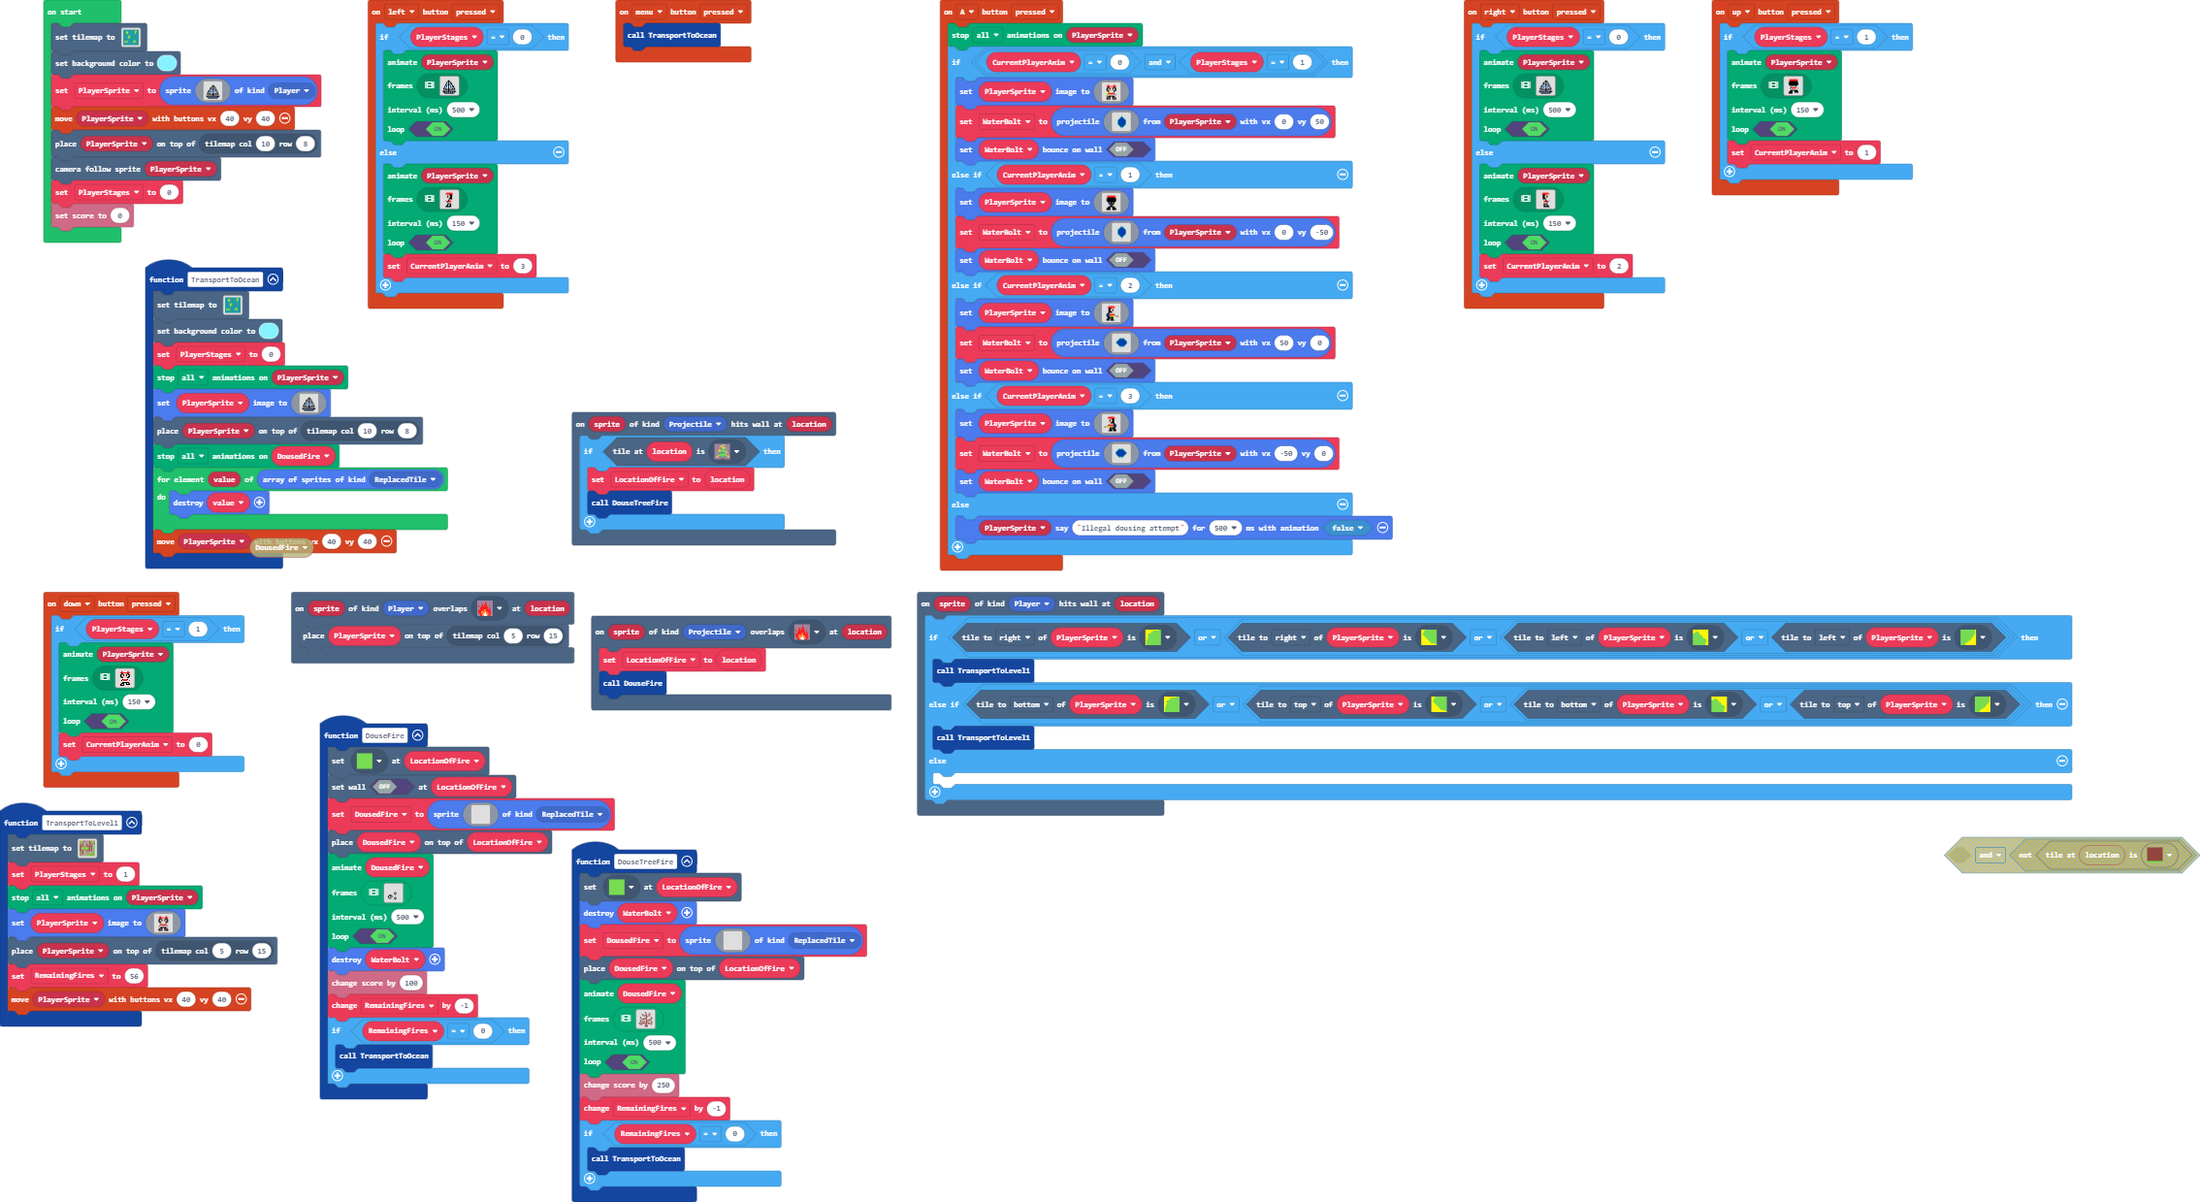
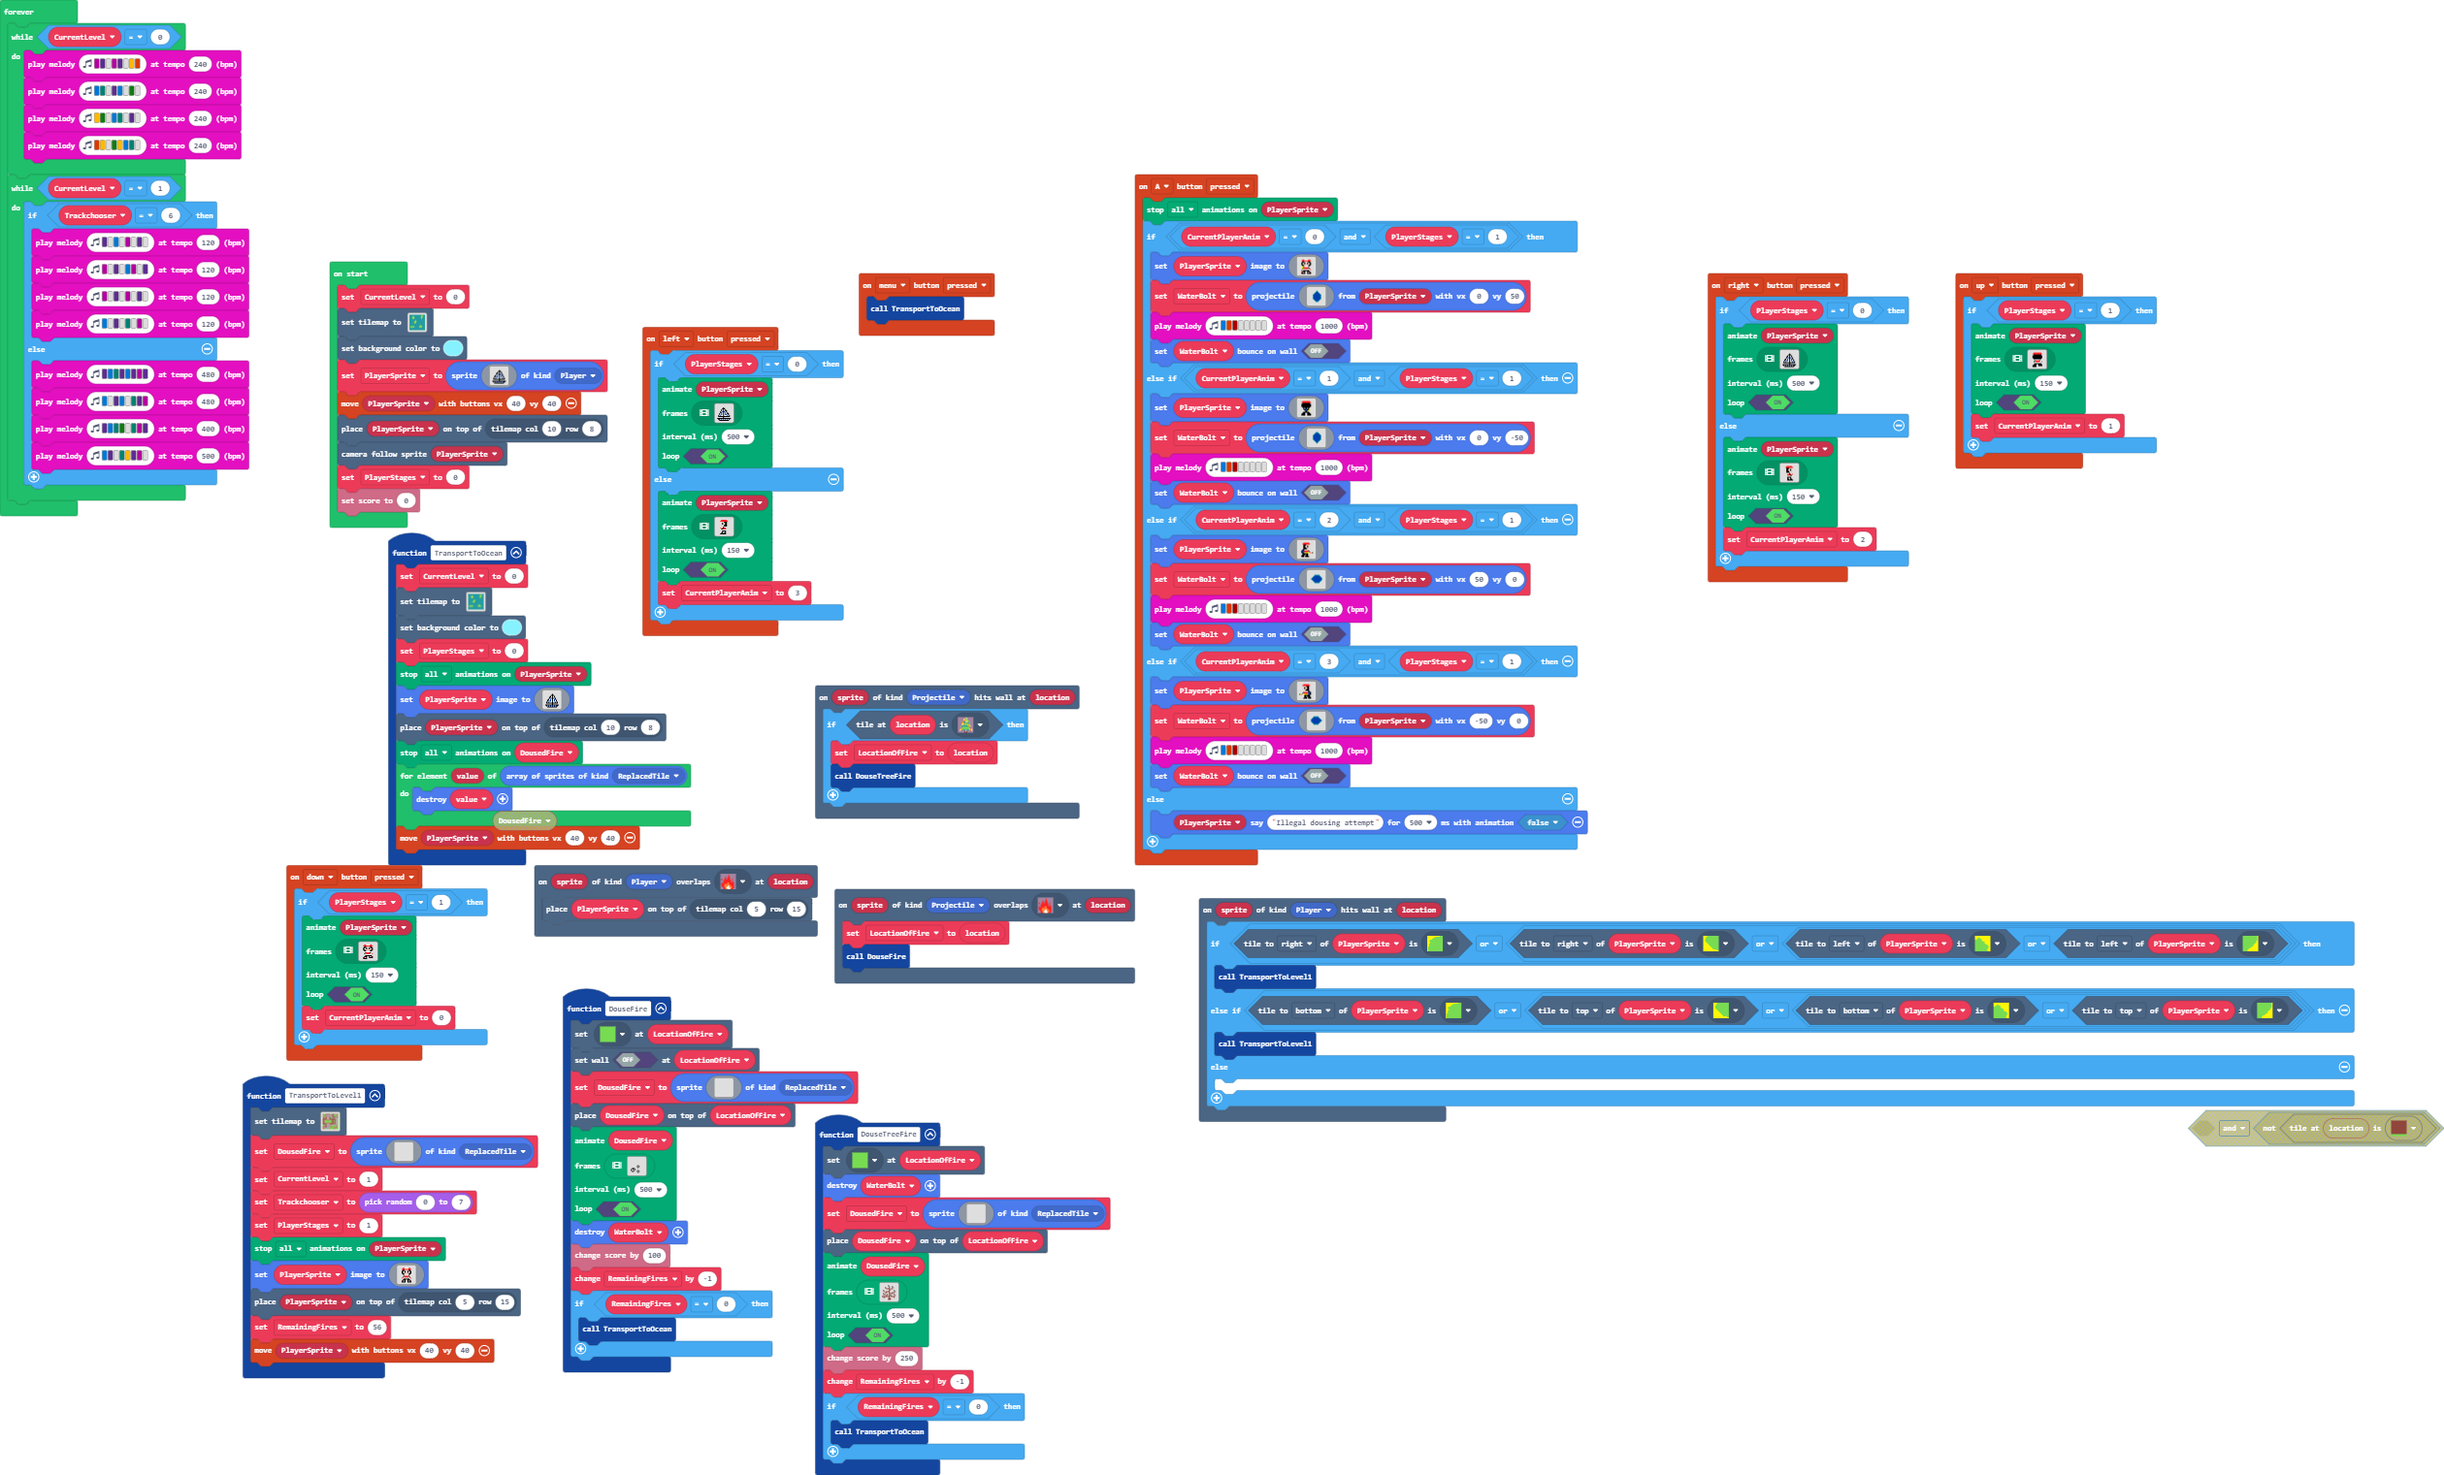
added music to the ocean+Lvl1 also fixed some bugs and changed the project name

diff --git a/main.ts b/main.ts
@@ -61,18 +61,22 @@ controller.A.onEvent(ControllerButtonEvent.Pressed, function () {
     if (CurrentPlayerAnim == 0 && PlayerStages == 1) {
         PlayerSprite.setImage(assets.image`FireFighterSpecialActionDown`)
         WaterBolt = sprites.createProjectileFromSprite(assets.image`WaterBlastDown`, PlayerSprite, 0, 50)
+        music.playMelody("E B C5 - - - - - ", 1000)
         WaterBolt.setBounceOnWall(false)
-    } else if (CurrentPlayerAnim == 1) {
+    } else if (CurrentPlayerAnim == 1 && PlayerStages == 1) {
         PlayerSprite.setImage(assets.image`FireFighterSpecialActionUp`)
         WaterBolt = sprites.createProjectileFromSprite(assets.image`WaterBlastUp`, PlayerSprite, 0, -50)
+        music.playMelody("E B C5 - - - - - ", 1000)
         WaterBolt.setBounceOnWall(false)
-    } else if (CurrentPlayerAnim == 2) {
+    } else if (CurrentPlayerAnim == 2 && PlayerStages == 1) {
         PlayerSprite.setImage(assets.image`FireFighterSpecialActionRight`)
         WaterBolt = sprites.createProjectileFromSprite(assets.image`WaterBlastRight`, PlayerSprite, 50, 0)
+        music.playMelody("E B C5 - - - - - ", 1000)
         WaterBolt.setBounceOnWall(false)
-    } else if (CurrentPlayerAnim == 3) {
+    } else if (CurrentPlayerAnim == 3 && PlayerStages == 1) {
         PlayerSprite.setImage(assets.image`FireFighterSpecialActionLeft`)
         WaterBolt = sprites.createProjectileFromSprite(assets.image`WaterBlastLeft`, PlayerSprite, -50, 0)
+        music.playMelody("E B C5 - - - - - ", 1000)
         WaterBolt.setBounceOnWall(false)
     } else {
         PlayerSprite.sayText("Illegal dousing attempt", 500, false)
@@ -115,6 +119,7 @@ controller.right.onEvent(ControllerButtonEvent.Pressed, function () {
     }
 })
 function TransportToOcean () {
+    CurrentLevel = 0
     tiles.setTilemap(tilemap`Ocean`)
     scene.setBackgroundColor(9)
     PlayerStages = 0
@@ -178,6 +183,26 @@ controller.menu.onEvent(ControllerButtonEvent.Pressed, function () {
 })
 function TransportToLevel1 () {
     tiles.setTilemap(tilemap`FireLevel1`)
+    DousedFire = sprites.create(img`
+        . . . . . . . . . . . . . . . . 
+        . . . . . . . . . . . . . . . . 
+        . . . . . . . . . . . . . . . . 
+        . . . . . . . . . . . . . . . . 
+        . . . . . . . . . . . . . . . . 
+        . . . . . . . . . . . . . . . . 
+        . . . . . . . . . . . . . . . . 
+        . . . . . . . . . . . . . . . . 
+        . . . . . . . . . . . . . . . . 
+        . . . . . . . . . . . . . . . . 
+        . . . . . . . . . . . . . . . . 
+        . . . . . . . . . . . . . . . . 
+        . . . . . . . . . . . . . . . . 
+        . . . . . . . . . . . . . . . . 
+        . . . . . . . . . . . . . . . . 
+        . . . . . . . . . . . . . . . . 
+        `, SpriteKind.ReplacedTile)
+    CurrentLevel = 1
+    Trackchooser = randint(0, 7)
     PlayerStages = 1
     animation.stopAnimation(animation.AnimationTypes.All, PlayerSprite)
     PlayerSprite.setImage(assets.image`ClimatianFireFighter0`)
@@ -198,6 +223,7 @@ scene.onOverlapTile(SpriteKind.Projectile, assets.tile`FireTile`, function (spri
     LocationOfFire = location
     DouseFire()
 })
+let Trackchooser = 0
 let RemainingFires = 0
 let DousedFire: Sprite = null
 let WaterBolt: Sprite = null
@@ -205,6 +231,8 @@ let LocationOfFire: tiles.Location = null
 let CurrentPlayerAnim = 0
 let PlayerStages = 0
 let PlayerSprite: Sprite = null
+let CurrentLevel = 0
+CurrentLevel = 0
 tiles.setTilemap(tilemap`Ocean`)
 scene.setBackgroundColor(9)
 PlayerSprite = sprites.create(assets.image`ClimarineR`, SpriteKind.Player)
@@ -213,3 +241,24 @@ tiles.placeOnTile(PlayerSprite, tiles.getTileLocation(10, 8))
 scene.cameraFollowSprite(PlayerSprite)
 PlayerStages = 0
 info.setScore(0)
+forever(function () {
+    while (CurrentLevel == 0) {
+        music.playMelody("C D - C D - A B ", 240)
+        music.playMelody("E F - D E - G - ", 240)
+        music.playMelody("A G - E F - D - ", 240)
+        music.playMelody("B A - G A E F - ", 240)
+    }
+    while (CurrentLevel == 1) {
+        if (Trackchooser == 6) {
+            music.playMelody("D - E - C - D - ", 120)
+            music.playMelody("C - D - E C - D ", 120)
+            music.playMelody("C - D - C - D - ", 120)
+            music.playMelody("E - D - F - C - ", 120)
+        } else {
+            music.playMelody("D E F D E D C D ", 480)
+            music.playMelody("E - D E - F D C ", 480)
+            music.playMelody("D E F G - F C D ", 400)
+            music.playMelody("E D - F A D C - ", 500)
+        }
+    }
+})

diff --git a/tilemap.g.ts b/tilemap.g.ts
@@ -235,6 +235,25 @@ namespace myTiles {
 . . . . . . . . . . . . . . . . 
 2 . . . . . . . . . . . 2 . . . 
 `, [myTiles.transparency16,myTiles.tile64,myTiles.tile65,myTiles.tile66,myTiles.tile67,myTiles.tile68,myTiles.tile70,myTiles.tile69,myTiles.tile71,myTiles.tile73,myTiles.tile72,myTiles.tile74,myTiles.tile76,myTiles.tile77,myTiles.tile75,myTiles.tile63,myTiles.tile62], TileScale.Sixteen);
+            case "level4":
+            case "level4":return tiles.createTilemap(hex`1000100000000000000000000000000000000000000000000000000000000000000000000000000000000000000000000000000000000000000000000000000000000000000000000000000000000000000000000000000000000000000000000000000000000000000000000000000000000000000000000000000000000000000000000000000000000000000000000000000000000000000000000000000000000000000000000000000000000000000000000000000000000000000000000000000000000000000000000000000000000000000000000000000000000000000000000000000000000000000000000000000000000000000000000000000000000000`, img`
+. . . . . . . . . . . . . . . . 
+. . . . . . . . . . . . . . . . 
+. . . . . . . . . . . . . . . . 
+. . . . . . . . . . . . . . . . 
+. . . . . . . . . . . . . . . . 
+. . . . . . . . . . . . . . . . 
+. . . . . . . . . . . . . . . . 
+. . . . . . . . . . . . . . . . 
+. . . . . . . . . . . . . . . . 
+. . . . . . . . . . . . . . . . 
+. . . . . . . . . . . . . . . . 
+. . . . . . . . . . . . . . . . 
+. . . . . . . . . . . . . . . . 
+. . . . . . . . . . . . . . . . 
+. . . . . . . . . . . . . . . . 
+. . . . . . . . . . . . . . . . 
+`, [myTiles.transparency16], TileScale.Sixteen);
         }
         return null;
     })
